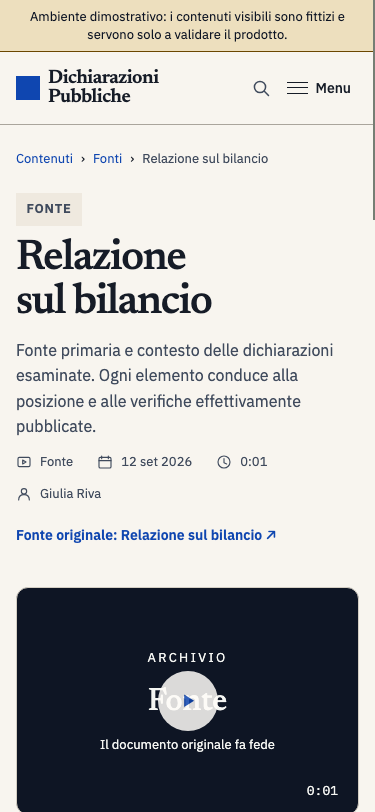
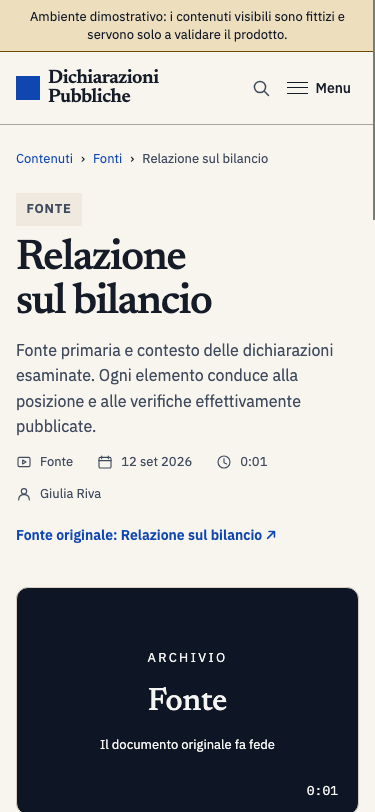
fix(dp349): show playback only for approved public media

Changed region(s): [[0.4107, 0.8005, 0.5867, 0.9236]]

diff --git a/web/src/styles/source-349.css b/web/src/styles/source-349.css
@@ -184,7 +184,6 @@ body:not(.is-studio) .source-story {
   fill: currentColor;
   stroke: none;
 }
-.source-story__play--static { opacity: .85; }
 .source-story__media-time {
   position: absolute;
   inset: auto var(--space-3) var(--space-3) auto;

diff --git a/docs/ux/dp349-review-20261111/README.md b/docs/ux/dp349-review-20261111/README.md
@@ -55,7 +55,7 @@ status. No image is evidence of a real, authorized public dossier.
 ### Nine-family visual matrix
 
 The repository's existing Chrome QA generated viewport captures for all nine
-public route families on the **same isolated fictional build**. The desktop
+public route families from the **same isolated fictional data fixture**. The desktop
 captures use 1440 CSS pixels, phone uses 375 CSS pixels, and the 200% captures
 use **actual browser zoom** (1280px outer viewport, 640px CSS layout viewport).
 These are first-viewport review captures, not full-page screenshots or evidence
@@ -77,6 +77,12 @@ An additional [grayscale phone capture](route-matrix/person-phone-grayscale.png)
 helps inspect the non-color reading cues. Chrome QA passed 24 route checks,
 with no external requests or overflow in the tested modes; manual screen-reader
 acceptance still needs its own human receipt.
+
+The Content route screenshots were refreshed after a small source-reader fix:
+without an explicitly approved `public_media_url`, its media panel and timeline
+no longer show an inert triangle that looks like a playable video. Approved
+media links and the fictional reference-page presentation are unchanged.
+The route-contract check now guards this distinction.
 
 ### Interaction acceptance
 
